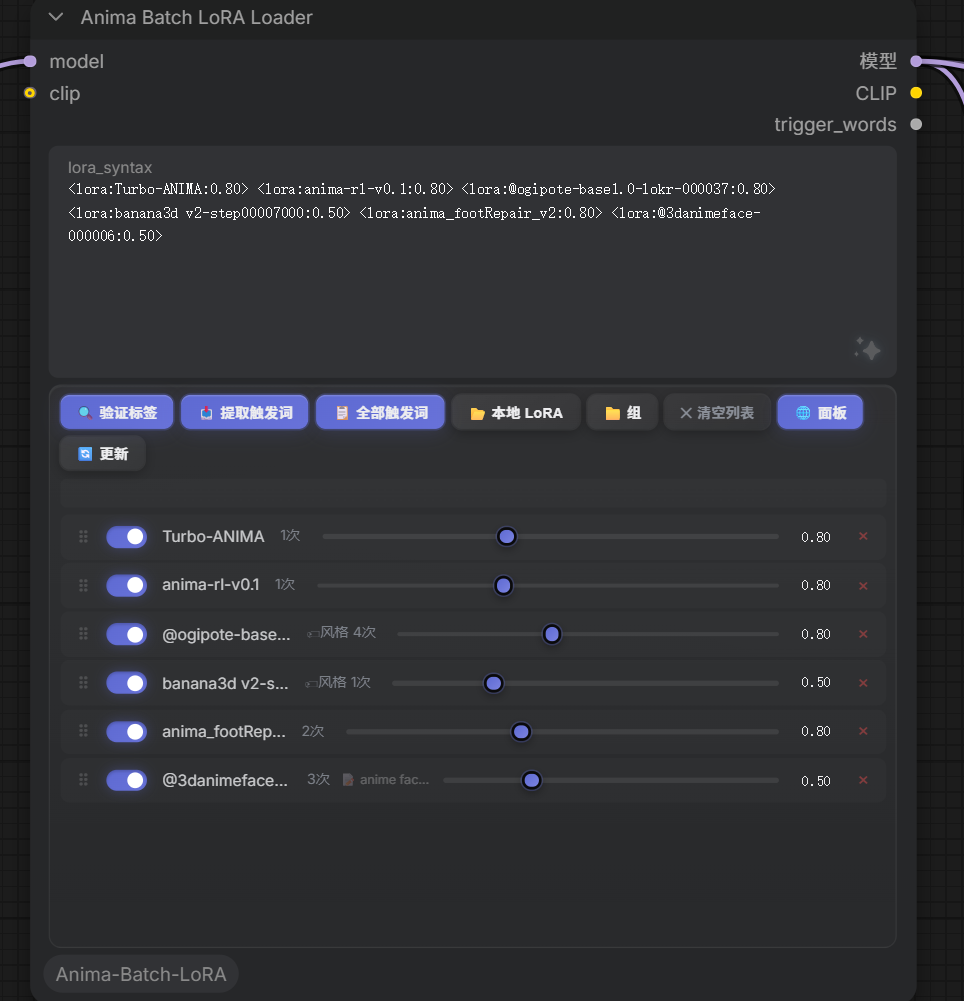
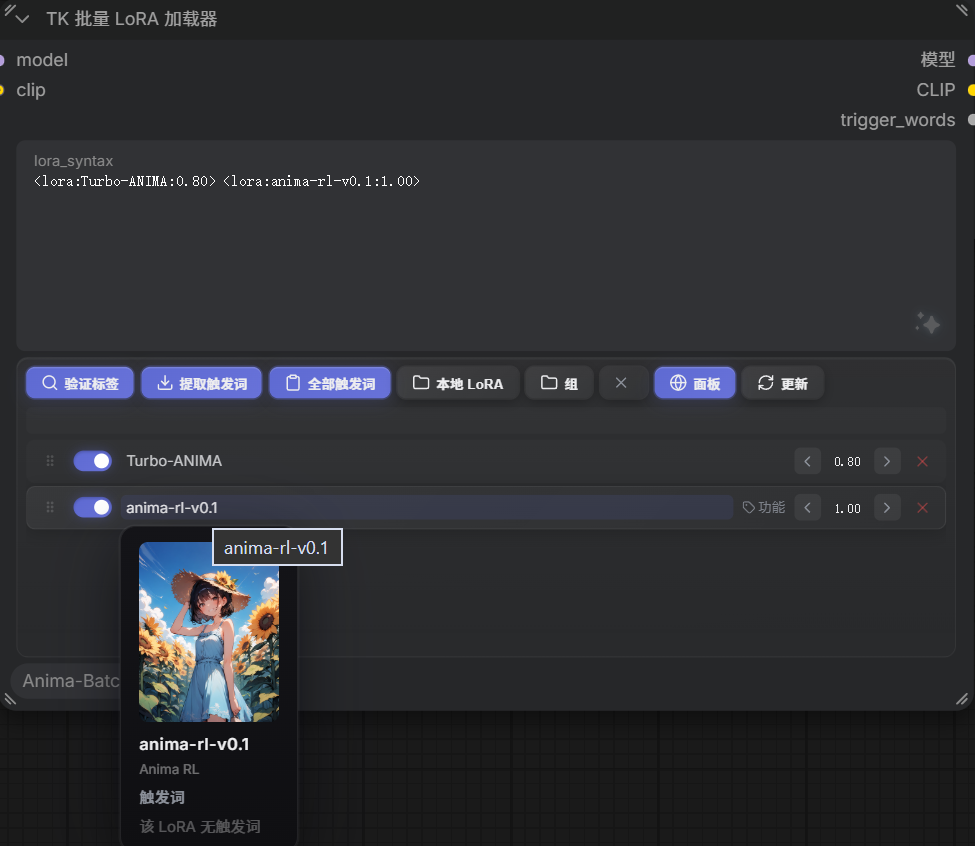
docs(readme): 用当前版本实拍图替换/新增节点与面板截图
- 替换 node-lora-loader / panel-outputs 为最新版实拍
- 新增 tk-camera-control / tk-prompt-batch / tk-danbooru-gallery / panel-clothing
- README 新增『TK 节点系列』『服装库』两节，TK 批量提示词章节挂图

diff --git a/README.md b/README.md
@@ -79,7 +79,29 @@ Steam 风格界面,管理全部本地 LoRA:
 - 分类 tab:全部 / 画师风格 / 人物角色 / 美学优化 / 背景环境 / 其他 / 收藏 / 已隐藏
 - 检测本地是否已有,卡片上直接下载
 
+### 8. TK 节点系列(批量 LoRA / 相机控制 / 批量提示词 / D站画廊)
+
+![TK 相机控制(3D 画布)](screenshots/tk-camera-control.png) · ![TK 批量提示词注入](screenshots/tk-prompt-batch.png) · ![TK D站画廊](screenshots/tk-danbooru-gallery.png)
+
+四个配合作画的新节点(批量 LoRA 加载器见上面第 1 节):
+
+- **TK 相机控制**:3D 画布上直接拖拽机位(**相对滑动,可连续绕到背面/俯仰),景别(距离)、翻滚、最大/最小权重;支持 19 个预设 + 自然语言描述,一键出相机词并联动批量提示词节点
+- **TK 批量提示词注入**:读取 `input/prompts/` 提示词文件按组批量出图(**一组 = 一张图**),逐组顺序入队;支持每页一组独立机位(`相机:` 行)、子目录分组、整批统一机位
+- **TK D站画廊**:按标签搜索 Danbooru(Novelu&Danbooru 图库)图片,多选输出 IMAGE + Prompt;内置分级/时间/评分/收藏筛选、双语 tag 预览、下载、入 Prompt 库
+- **TK 批量 LoRA 加载器**:见第 1 节——批量挂 LoRA、触发词/全部触发词一键复制、本地 LoRA 可视化浏览、权重滑块、分组保存
+
+### 9. 服装库(面板)
+
+![服装库](screenshots/panel-clothing.png)
+
+- 服装卡片库,平铺分类(裙装/泳装/制服/袜类…)自定义分组
+- **AI 抽卡**:随机抽 N 套服装串复制合并,写词即"已抽卡"
+- 导入(合并不删旧卡)/导出,支持逐张勾选预览
+- 任何增删改自动同步 AI 检索索引,写词时自动按分类可用
+
 ## TK 批量提示词节点 + 配套 AI 撰写 skill
+
+![TK 批量提示词注入](screenshots/tk-prompt-batch.png)
 
 **TK Prompt Batch(批量提示词注入)** 读本地提示词文件按组批量出图:一组 = 一张图,队列时逐组顺序生成。提示词文件放 ComfyUI 的 `input/prompts/` 目录,格式:
 
